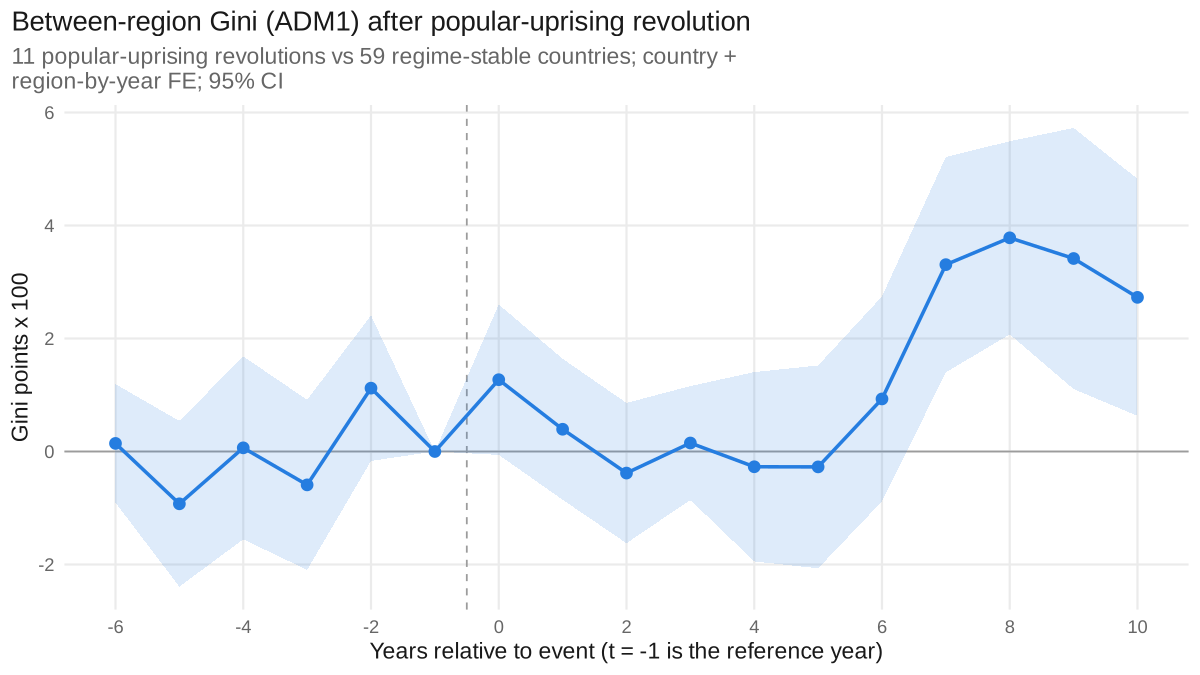
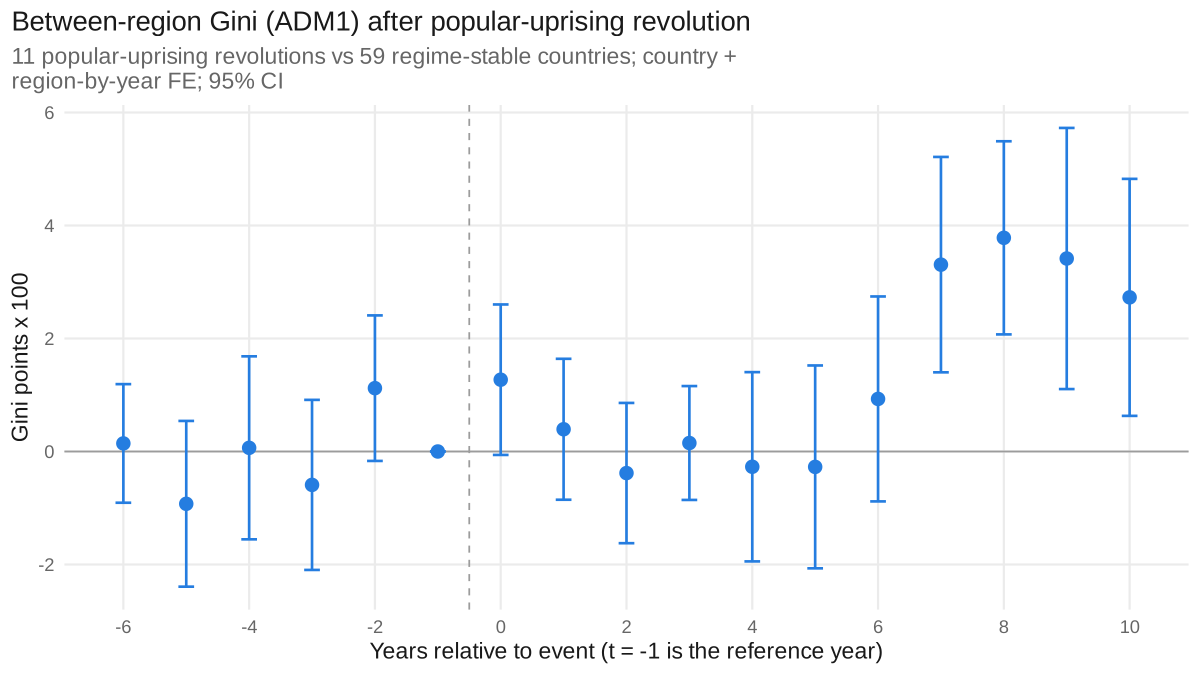
Render event-study figures as caterpillar plots (point + 95% CI bars)
Claude-Session: https://claude.ai/code/session_015nkYPvfDUxkqoprUkuHoSf

diff --git a/analysis/spatial-inequality-politics/README.md b/analysis/spatial-inequality-politics/README.md
@@ -232,7 +232,7 @@ incumbent-led erosions (e.g., Turkey 2013, Hungary 2018, India 2017, Serbia
 2014, Nicaragua 2007, El Salvador 2021). Only 4 have a coup within a year
 (Niger 1996, Fiji 2000, Thailand 2006, Honduras 2009).
 
-Figures (one series each, in `output/figures/`):
+Caterpillar plots (one series each, point estimate + 95% CI per event year, in `output/figures/`):
 
 ![Total light after breakdown](output/figures/breakdown_total_light.png)
 ![Core-region light after breakdown](output/figures/breakdown_core_light.png)
@@ -365,7 +365,7 @@ events and countries with no regime change for the revolutions. All estimates
 use the Sun & Abraham estimator with country + region×year FE and no
 time-varying controls. The event list is in `war_revolution_events.csv`.
 
-Figures (one series each, in `output/figures/`):
+Caterpillar plots (one series each, point estimate + 95% CI per event year, in `output/figures/`):
 
 ![Total light after civil-war onset](output/figures/war_total_light.png)
 ![Between-region Gini after civil-war onset](output/figures/war_between_gini.png)
@@ -486,5 +486,5 @@ democracyData `84290a7`), so neither package needs to be installed.
 - `breakdown_events.csv`, `breakdown_events_lied.csv`, `breakdown_paths.csv`, `breakdown_jackknife.csv`, `breakdown_heterogeneity.csv`, `breakdown_heterogeneity_paths.csv`: breakdown deep dive
 - `spatial_events_country.csv`, `spatial_events_unit_ddd.csv`: spatial distribution after regime change
 - `war_revolution_events.csv`, `war_revolution_event_study.csv`, `war_revolution_jackknife.csv`: civil wars and revolutions
-- `figures/`: one event-time figure per event × outcome (breakdown_*, war_*, termination_*, revolution_*)
+- `figures/`: one event-time caterpillar plot per event × outcome (breakdown_*, war_*, termination_*, revolution_*)
 - `predictor_correlations.csv`, `coefplot.png`
